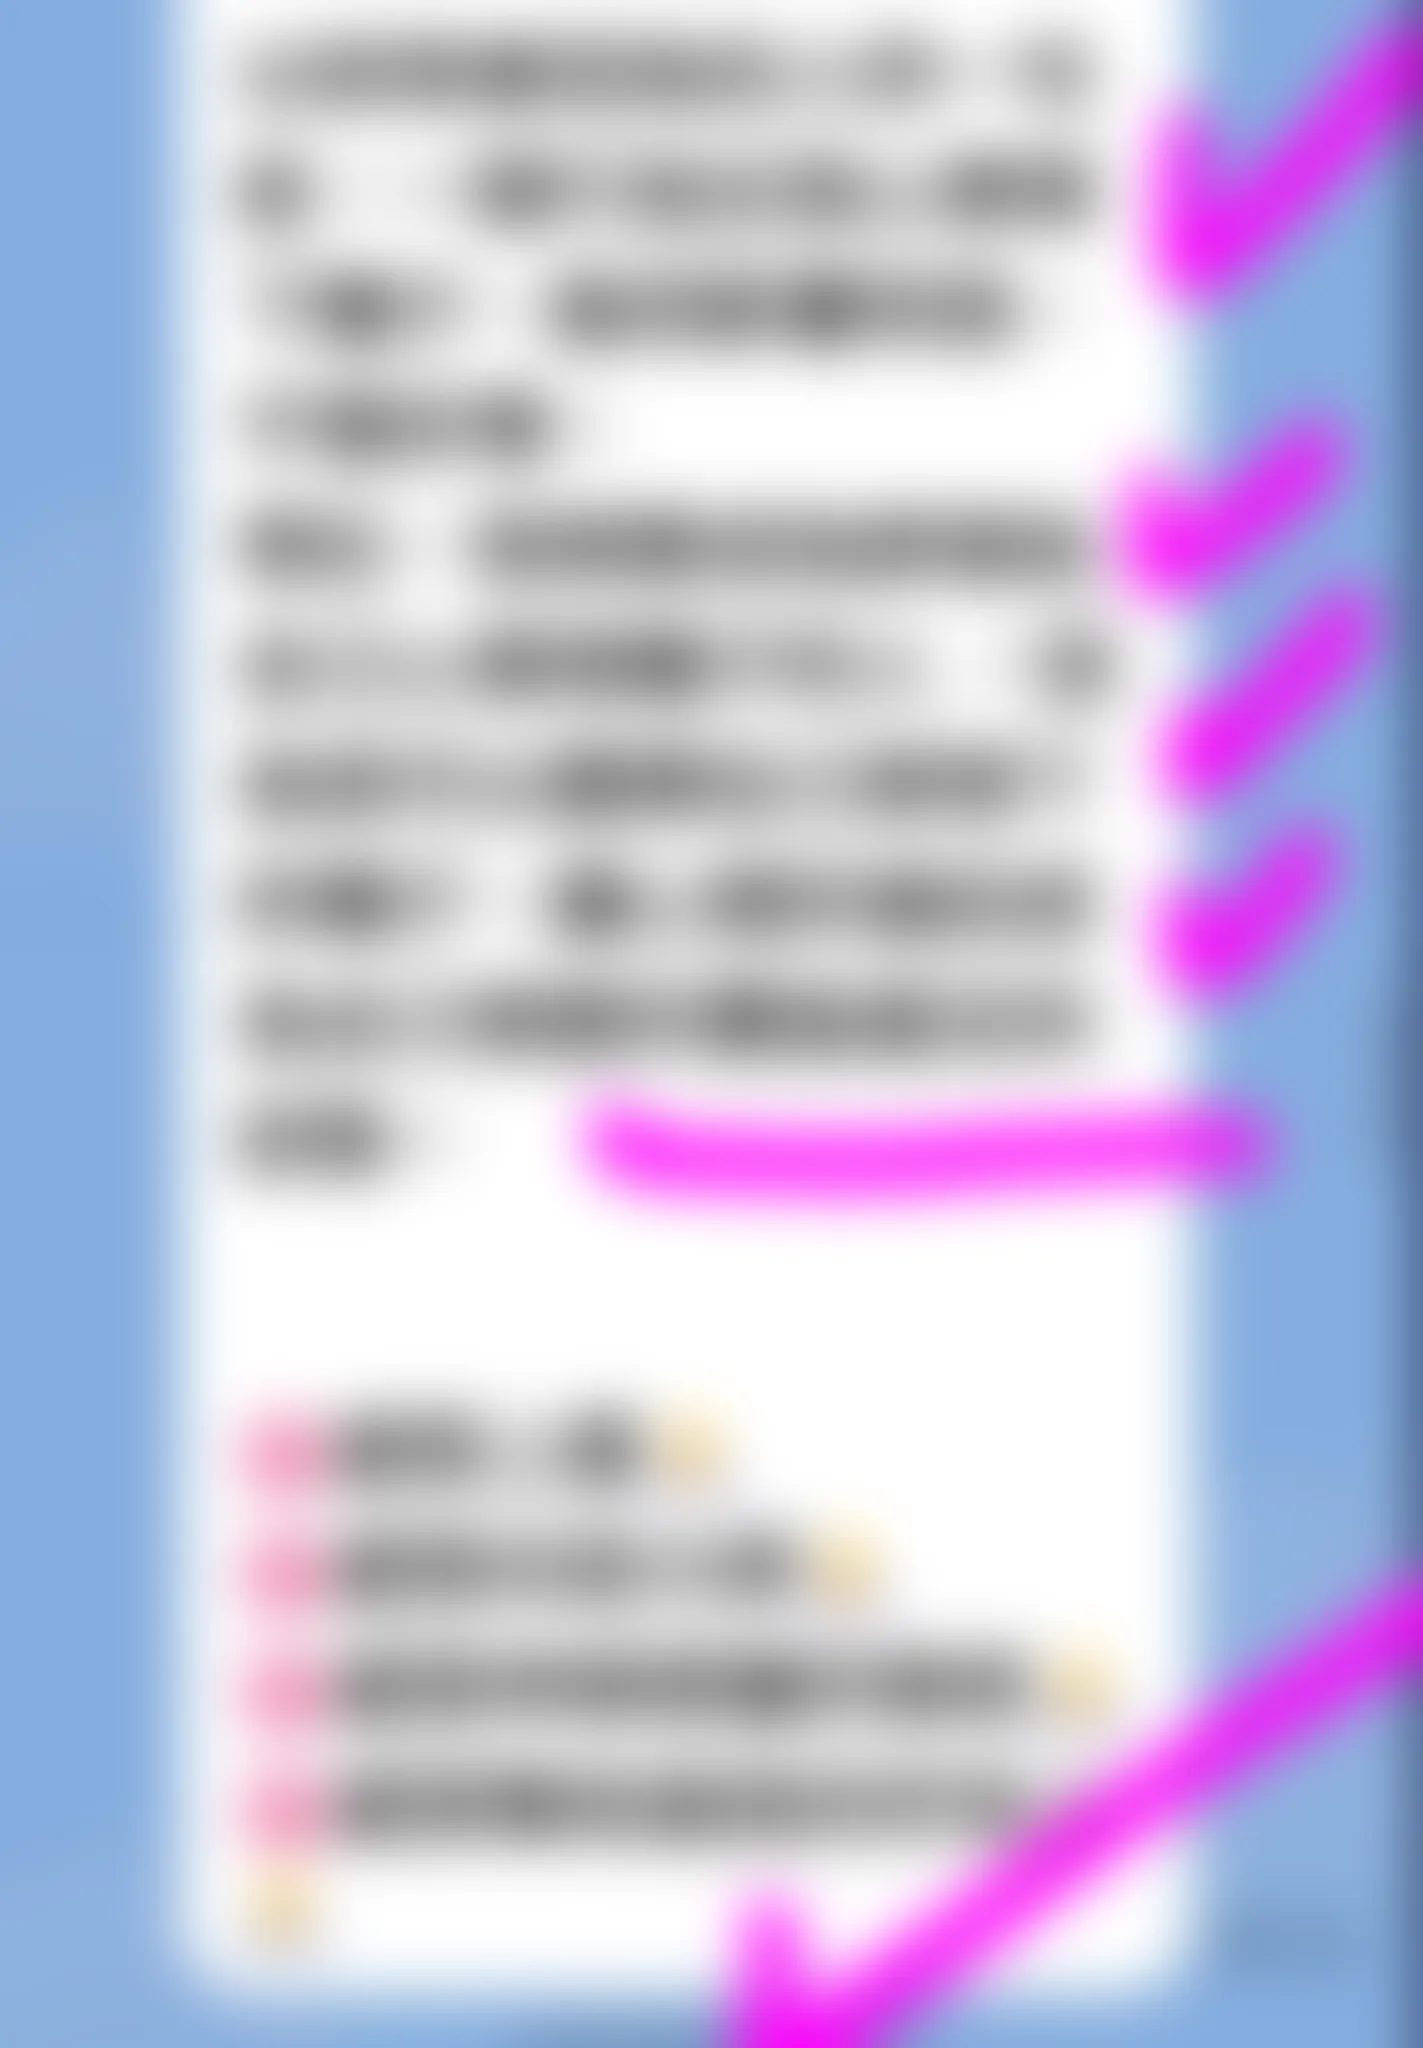
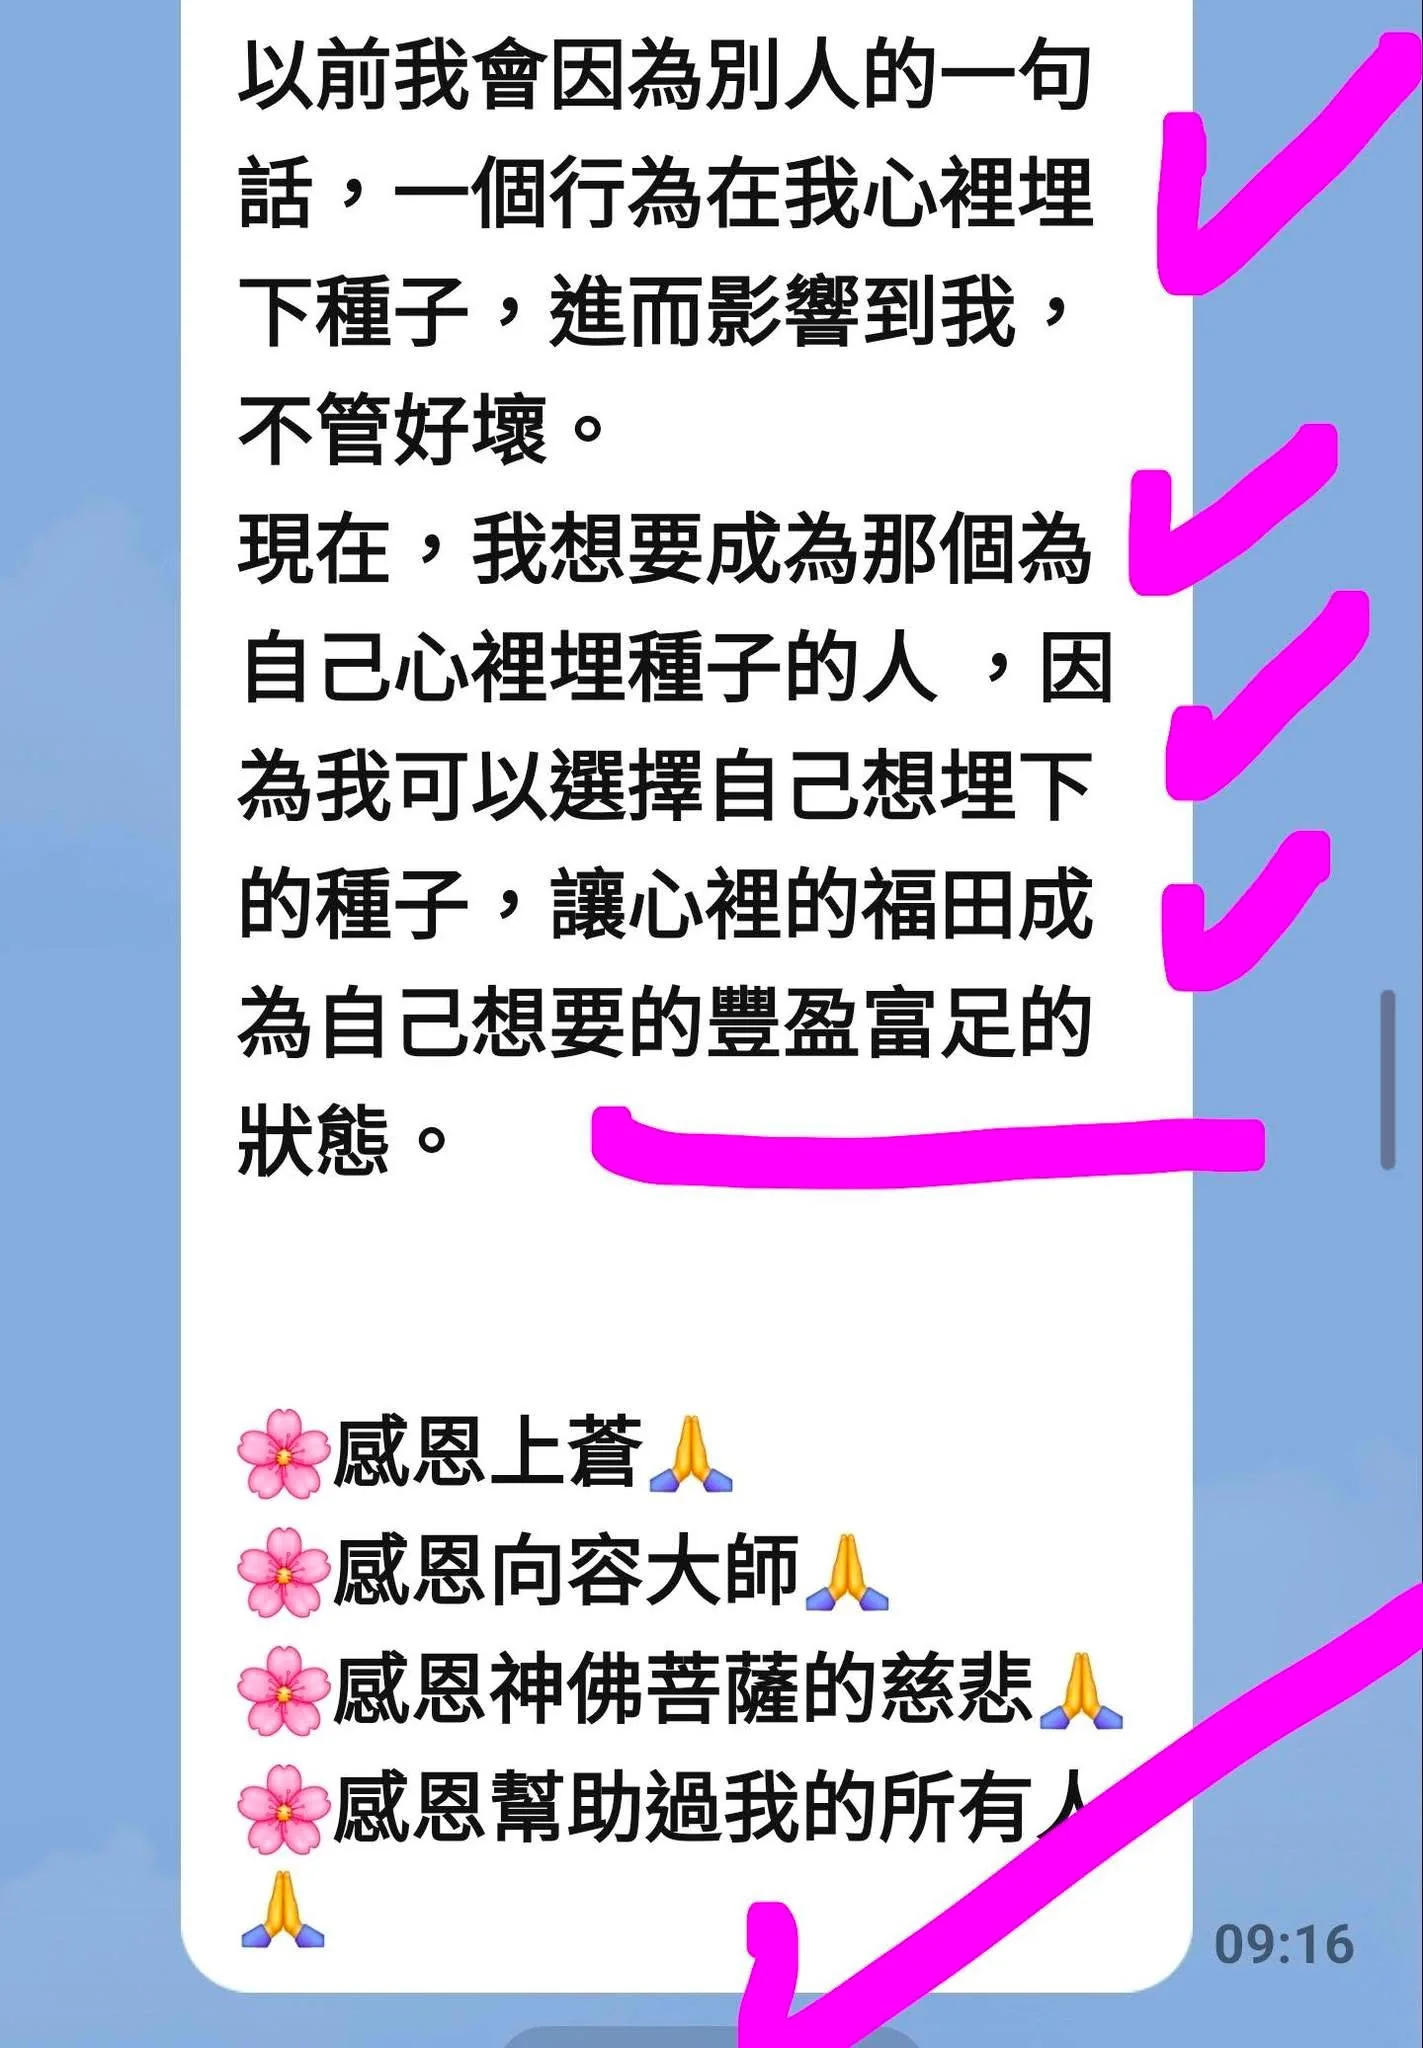
Publish full testimonial assets

diff --git a/index.html b/index.html
@@ -16,12 +16,12 @@
 <a class="service-row" href="https://forms.gle/mk9bN4YkbUTdmSMG6" data-booking-link><span class="service-num">04</span><h3>個人能量及補運</h3><div class="row-right"><p>以傳統文化中的相關方法作為個人思考與生活調整的參考。</p><span class="service-arrow" aria-hidden="true">↗</span></div></a>
 </div></section>
 <section class="section philosophy"><div class="container split"><div><p class="eyebrow">A PERSPECTIVE, NOT A PROMISE</p><h2 class="section-title">好的諮詢，<br>不是替你做選擇。</h2></div><div><p class="lead">而是把複雜的問題，整理成更清楚的思考。</p><p>人生藍圖、工作方向、關係與空間需求各有不同。諮詢的目的，是提供值得思考的觀點，而非保證某種結果。</p><a class="line-link" href="https://forms.gle/mk9bN4YkbUTdmSMG6" data-booking-link>申請諮詢 <span aria-hidden="true">→</span></a></div></div></section>
-<section class="section testimony" id="testimonials" aria-labelledby="testimonials-title"><div class="container"><div class="section-head"><div><p class="eyebrow">REAL STORIES · 真實客戶回饋</p><h2 class="section-title" id="testimonials-title">真實的回饋，<br>各有不同故事。</h2></div><p class="text-muted">以下回饋素材皆已模糊化處理，用以呈現服務經驗；網站不公開可識別客戶個人的資訊。</p></div><p class="scroll-hint">左右滑動查看回饋　← →</p><div class="testimony-scroll">
-<article class="testimony-entry"><button class="testimony-img" type="button" data-expand-testimonial aria-label="放大查看升學與人生階段客戶回饋"><img src="assets/feedback-1.webp" alt="過去網站提供的升學與人生階段客戶訊息截圖" loading="lazy" width="788" height="1280"></button><h3>升學與人生階段</h3><p>既有客戶回饋原始截圖</p></article>
-<article class="testimony-entry"><button class="testimony-img" type="button" data-expand-testimonial aria-label="放大查看陽宅現場勘察客戶回饋"><img src="assets/feedback-2.webp" alt="過去網站提供的陽宅現場勘察訊息截圖" loading="lazy" width="654" height="1280"></button><h3>陽宅現場勘察</h3><p>既有客戶回饋原始截圖</p></article>
-<article class="testimony-entry"><button class="testimony-img" type="button" data-expand-testimonial aria-label="放大查看關係諮詢客戶回饋"><img src="assets/feedback-3.webp" alt="過去網站提供的關係諮詢客戶訊息截圖" loading="lazy" width="1238" height="2048"></button><h3>關係與理解</h3><p>既有客戶回饋原始截圖</p></article>
-<article class="testimony-entry"><button class="testimony-img" type="button" data-expand-testimonial aria-label="放大查看人生觀點客戶回饋"><img src="assets/feedback-4.webp" alt="過去網站提供的人生觀點客戶訊息截圖" loading="lazy" width="1423" height="2048"></button><h3>重新整理自己的想法</h3><p>既有客戶回饋原始截圖</p></article>
-<article class="testimony-entry"><button class="testimony-img" type="button" data-expand-testimonial aria-label="放大查看工作近況客戶回饋"><img src="assets/feedback-5.webp" alt="過去網站提供的工作與空間近況客戶訊息截圖" loading="lazy" width="1028" height="2048"></button><h3>工作與空間近況</h3><p>既有客戶回饋原始截圖</p></article>
+<section class="section testimony" id="testimonials" aria-labelledby="testimonials-title"><div class="container"><div class="section-head"><div><p class="eyebrow">REAL STORIES · 真實客戶回饋</p><h2 class="section-title" id="testimonials-title">真實的回饋，<br>各有不同故事。</h2></div><p class="text-muted">以下回饋呈現客戶的服務經驗。</p></div><p class="scroll-hint">左右滑動查看回饋　← →</p><div class="testimony-scroll">
+<article class="testimony-entry"><button class="testimony-img" type="button" data-expand-testimonial aria-label="放大查看升學與人生階段客戶回饋"><img src="assets/feedback-1.webp" alt="過去網站提供的升學與人生階段客戶訊息截圖" loading="lazy" width="788" height="1280"></button><h3>升學與人生階段</h3></article>
+<article class="testimony-entry"><button class="testimony-img" type="button" data-expand-testimonial aria-label="放大查看陽宅現場勘察客戶回饋"><img src="assets/feedback-2.webp" alt="過去網站提供的陽宅現場勘察訊息截圖" loading="lazy" width="654" height="1280"></button><h3>陽宅現場勘察</h3></article>
+<article class="testimony-entry"><button class="testimony-img" type="button" data-expand-testimonial aria-label="放大查看關係諮詢客戶回饋"><img src="assets/feedback-3.webp" alt="過去網站提供的關係諮詢客戶訊息截圖" loading="lazy" width="1238" height="2048"></button><h3>關係與理解</h3></article>
+<article class="testimony-entry"><button class="testimony-img" type="button" data-expand-testimonial aria-label="放大查看人生觀點客戶回饋"><img src="assets/feedback-4.webp" alt="過去網站提供的人生觀點客戶訊息截圖" loading="lazy" width="1423" height="2048"></button><h3>重新整理自己的想法</h3></article>
+<article class="testimony-entry"><button class="testimony-img" type="button" data-expand-testimonial aria-label="放大查看工作近況客戶回饋"><img src="assets/feedback-5.webp" alt="過去網站提供的工作與空間近況客戶訊息截圖" loading="lazy" width="1028" height="2048"></button><h3>工作與空間近況</h3></article>
 </div></div></section>
 <section class="section" id="social" aria-labelledby="social-title"><div class="container"><div class="section-head"><div><p class="eyebrow">THE JOURNAL · 影音與文章</p><h2 class="section-title" id="social-title">透過每一次分享，<br>持續認識向容。</h2></div><p class="text-muted">最新的短影音、生活觀點與專業文章，請直接前往官方社群平台閱讀與觀看。</p></div><div class="social-panel"><article class="social-card"><div class="social-icon" aria-hidden="true">f</div><h3>Facebook · 專業觀點</h3><p>延伸閱讀職場、人生階段、風水與關係主題的圖文、影片和品牌動態。</p><a class="line-link" href="https://www.facebook.com/share/14rjYYNBkjm/" target="_blank" rel="noopener noreferrer">開啟 Facebook <span aria-hidden="true">↗</span></a></article><article class="social-card"><div class="social-icon" aria-hidden="true">◎</div><h3>Instagram · 短影音</h3><p>從 Reels 與日常分享，看見向容大師如何以傳統智慧回應現代生活。</p><a class="line-link" href="https://www.instagram.com/astrology_srzce?vrfl=MXIzMjRtN2Q5Z3N5YQ%3D%3D&amp;utm_source=qr" target="_blank" rel="noopener noreferrer">觀看 IG Reels <span aria-hidden="true">↗</span></a></article></div><p class="real-data-alert">歡迎前往官方 Facebook 與 Instagram，查看最新文章、影片與品牌動態。</p></div></section>
 <section class="section line-capture" id="line" aria-labelledby="line-title"><div class="container"><div class="line-intro"><p class="eyebrow">STAY CONNECTED · 官方 LINE</p><h2 class="section-title" id="line-title">喜歡我們的分享，<br>就把交流延續下去。</h2><p class="lead">加入「向容大師紫微能量好運學院」官方 LINE，了解最新文章、課程與諮詢消息。</p><a class="btn" href="https://line.me/R/ti/p/@wdt9943b" target="_blank" rel="noopener noreferrer">加入官方 LINE 好友 <span aria-hidden="true">↗</span></a></div></div></section>
